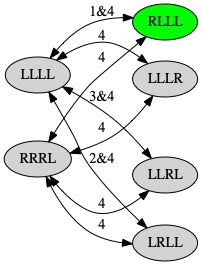
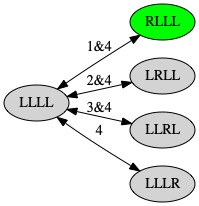
commit

diff --git a/_posts/2000-01-07-Variations.md b/_posts/2000-01-07-Variations.md
@@ -12,9 +12,9 @@ Suppose there are three blue-eyed people. If the color-blinded person has blue e
 
 The normal blue-eyed person will see two blue-eyed and one brown-eyed people. His deduction will be like: "If those two is the only two with blue eyes, then I have brown eyes. That case, they will suicide the island the midnight of Day 2. If not, then that means I also have blue eyes, and we have to suicide the midnight of **Day 3**." On the Day 1 and Day 2 no one suicides.It is because the blue-eyed person is waiting for the other one to suicide. On the Day 3, he sees that the other blue-eyed person is still on the island, so he realizes that he has blue eyes too. Therefore, the two normal blue-eyed person suicides at midnight on the **Day 3**.
 
-The brown-eyed people will see three blue-eyed. His deduction will be like: "If those three people are the only ones with blue eyes, then I have brown eyes. That case, they will suicide the midnight of Day 3. If not, it means there are more than three people with blue eyes and I am one of them" On the Day 1 and Day 2, no one suicides. On the Day 3, he see only two of the three blue-eyed people has left, while the other one is still on the island. Now he will feel quite confused, as it contradicts his assumption. Therefore they will not be able to figure out their own eye color or why the other blue-eyed person is still on the island.
+The brown-eyed people will see three blue-eyed. His deduction will be like: "If those three people are the only ones with blue eyes, then I have brown eyes. That case, they will suicide at the midnight of Day 3. If not, more than three people with blue eyes and I am one of them" On the Day 1 and Day 2, no one suicides. On the Day 3, he see only two of the three blue-eyed people has left, while the other one is still on the island. Now he will feel quite confused, as it contradicts his assumption. Therefore they will not be able to figure out their own eye color or why the other blue-eyed person is still on the island. As for the color-blinded person, he sees two people suicide on the **Day 3**, he would think there are three people who has blue eyes and he realize he is the third one and suicides on the **Day 4**.
 
-The Kriple model of this typical variation is shown in **Fig. 5-9** from before the announcement to **Day 3**.
+The Kriple model of this typical variation is shown in **Fig. 5-9** from before the announcement to **Day 3**. We use Mesa to illustrate the variation of number of states in Kripke model (**Fig. 10**) and number of alive islanders day by day (**Fig.11**).
 
 Therefore in general, if there are more than one blue-eyed people (suppose the total number is **m**), all the normal blue-eyed people (**m-1**) will suicide the island at the midnight of **Day m**, the color-blinded one will stay on the island. 
 
@@ -42,9 +42,24 @@ Therefore in general, if there are more than one blue-eyed people (suppose the t
     padding: 2px;"><strong>Fig.5-9 ( top to down, left to right ) Variation Kripke model with three blue-eyed people and one of them is color-blinded</strong></div>
 </center>
 
+<center>
+    <img style="border-radius: 0.3125em;
+    box-shadow: 0 2px 4px 0 rgba(34,36,38,.12),0 2px 10px 0 rgba(34,36,38,.08);width: 45%;
+    height: 45%;" 
+    src="img/blind_1x3_states.png">   <img style="border-radius: 0.3125em;
+    box-shadow: 0 2px 4px 0 rgba(34,36,38,.12),0 2px 10px 0 rgba(34,36,38,.08);width: 45%;
+    height: 45%;" 
+    src="img/blind_1x3_agents.png"> 
+     <br>
+    <div style="color:orange; border-bottom: 1px solid #d9d9d9;
+    display: inline-block;
+    color: #999;
+    padding: 2px;"><strong>Fig.10-11 (left to right)</strong></div>
+</center>
+
 <font size=6 color=black>3. The color-blinded person is the only islander who has <font size=6 color=blue>blue</font> eyes:</font>
 
-We still set the total number of islanders to 4. In this situation, all the three brown islanders will see one blue-eyed person and two brown-eyed. They will think " if he does not suicide on **Day 1** then I should be in blue-eyed. " However, since the blue-eyed person cannot deduct his own eye color based on the behavior of others, he will not suicide on Day 1. On the **Day 2**, the brown-eyed people see the only blue-eyed person has not left, they will mistakenly think they have blue eyes and suicide the island suicide **Day 2**. The color-blinded blue-eyed person sees them suicide and and realize he is blue-eyed. Therefore he will suicide on **Day 2**.
+We still set the total number of islanders to 4. In this situation, all the three brown islanders will see one blue-eyed person and two brown-eyed. They will think " if he does not suicide on **Day 1** then I should be in blue-eyed. " However, since the blue-eyed person cannot deduct his own eye color based on the behavior of others, he will not suicide on Day 1. On the **Day 2**, the brown-eyed people see the only blue-eyed person has not suicided, they will mistakenly think they have blue eyes and then suicide. The color-blinded blue-eyed person knows them suicide and realize he is blue-eyed. Therefore he will suicide on **Day 3**. 
 
 
 <font size=6>Kripke model</font>

diff --git a/_posts/2000-01-10-Models.md b/_posts/2000-01-10-Models.md
@@ -3,7 +3,7 @@ title: <font size=10 color=lightblue>IV. Normal Models</font>
 ---
 
 <font size=6>Kripke model</font>
-Initially, we can draw the following <strong>Kripke model (with m=5)</strong>: (From top to down, left to right). **L** represents **blue-eyed** and **R** represents **brown-eyed**. We assume that there are three brown-eyed people and two blue-eyed people. In Fig.1, it is the situation that the foreigner has not made the announcement. None of the islanders can determine the color of their own eyes. But they can determine the color of other islanders' eyes. So each islander's knowledge includes the color of the other islanders' eyes, as well as both blue and brown as possible colors for their own eyes. So each islander incorporates two possible worlds: the real world, and the world that replaces their own eye color in the real world with another color.Then after the foreigner made the announcement, the situation that everyone has brown eyes is not possible, therefore the Kripke model (<strong>Day 0</strong>) will be Fig.2. On the <strong>Day 1 </strong>(Fig.3) , no one leaves, because each blue-eyed person is waiting for the other one to leave. On the <strong>Day 2 </strong>(Fig.4), the blue-eyed people both realize that they have blue eyes, and they both leave at midnight.
+Initially, we can draw the following <strong>Kripke model (with m=5)</strong>: (From top to down, left to right). **L** represents **blue-eyed** and **R** represents **brown-eyed**. We assume that there are three brown-eyed people and two blue-eyed people. In Fig.1, it is the situation that the foreigner has not made the announcement. None of the islanders can determine the color of their own eyes. But they can determine the color of other islanders' eyes. So each islander's knowledge includes the color of the other islanders' eyes, as well as both blue and brown as possible colors for their own eyes. So each islander incorporates two possible worlds: the real world, and the world that replaces their own eye color in the real world with another color.Then after the foreigner made the announcement, the situation that everyone has brown eyes is not possible (which is the common knowledge), therefore the Kripke model (<strong>Day 0</strong>) will be Fig.2. On the <strong>Day 1 </strong>(Fig.3) , no one suicides, because each blue-eyed person is waiting for the other one to suicide. On the <strong>Day 2 </strong>(Fig.4), the blue-eyed people both realize that they have blue eyes, and they both suicide at midnight.
 <center>
     <img style="border-radius: 0.3125em;
     box-shadow: 0 2px 4px 0 rgba(34,36,38,.12),0 2px 10px 0 rgba(34,36,38,.08);width: 30%;
@@ -27,7 +27,7 @@ Initially, we can draw the following <strong>Kripke model (with m=5)</strong>: (
 
 ---
 <font size=6>Mesa model</font>
-- Mesa helps with creating MAS simulations. Here the Mesa model includes 100 islanders, with 90 having brown eyes and 10 having blue eyes. The interface has a grid to display the islanders and a graph to show the number of alive islanders. Sliders allow adjusting the counts of brown-eyed and blue-eyed islanders, and a selector offers puzzle variations. This model enables exploring the dynamics of the islander population in a flexible way.
+- Mesa helps with creating MAS simulations. Here the Mesa model is used to illustrate the variation of number of states in Kripke model and number of alive islanders day by day. The interface has a grid to display the islanders and a graph to show the number of alive islanders. Sliders allow adjusting the counts of brown-eyed and blue-eyed islanders, and a selector offers puzzle variations. This model enables exploring the dynamics of the islander population in a flexible way.
 
 [Look at the code](https://github.com/Jiayun-Zhang/LAMAS_project) from github
 

diff --git a/_posts/2000-01-05-Discussion.md b/_posts/2000-01-05-Discussion.md
@@ -3,5 +3,5 @@ title: <font size=10 color=lightblue>VI.Discussion</font>
 ---
 
 
-[Look at the code](https://github.com/Jiayun-Zhang/LAMAS_project) from GitHub
+[Click to Look at the code](https://github.com/Jiayun-Zhang/LAMAS_project) from GitHub
 
